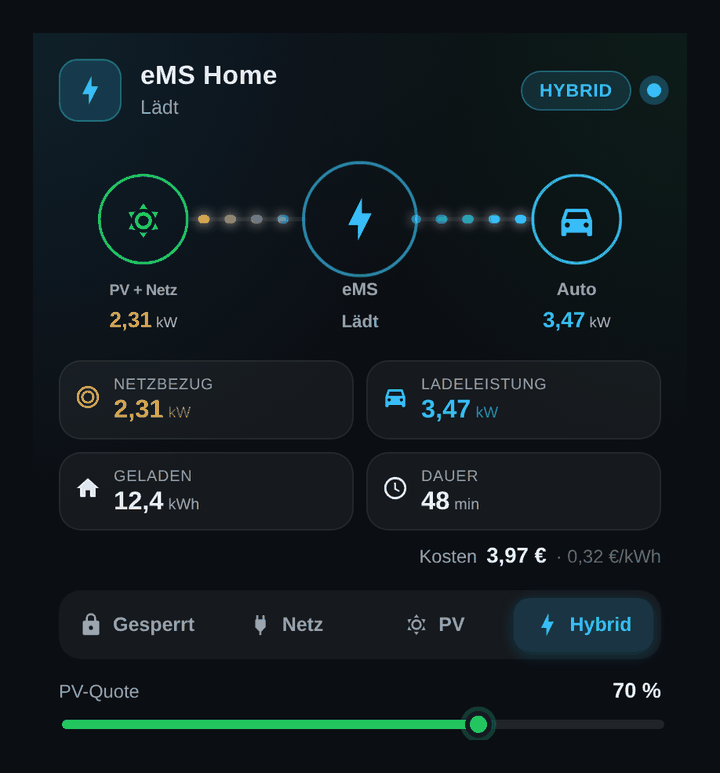
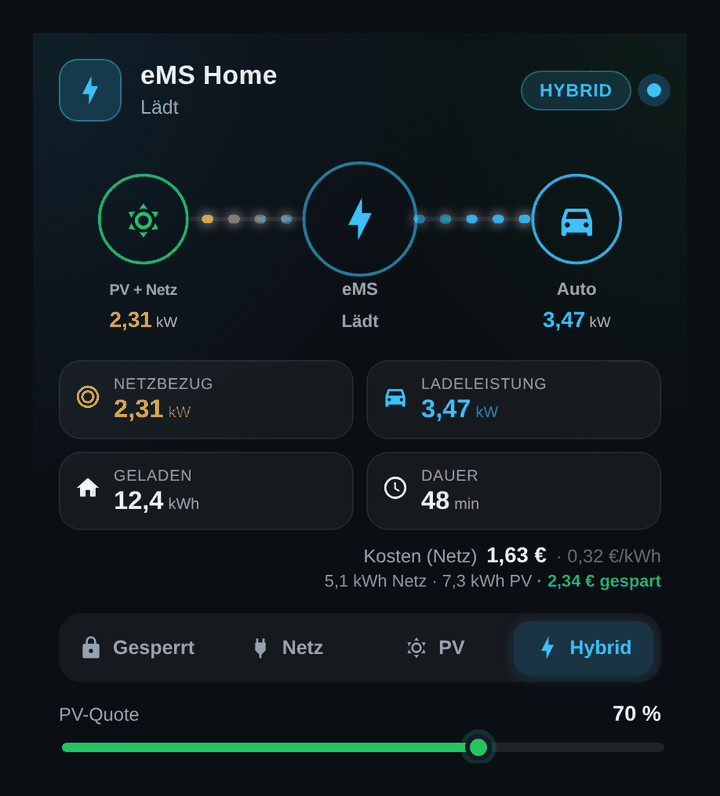
feat: price the grid share of a charging cycle and show what the PV saved
The cost line charged every kWh of a cycle at the grid tariff, which overstates
the bill in PV and hybrid mode. The coordinator now keeps a second counter: while
the car draws power, grid import is attributed to it first (capped at the car's
own draw), the remainder counts as solar.

- session energy sensor exposes energy_from_grid_kwh / energy_from_pv_kwh
- card: cost = grid * price + pv * pv_price (new option, default 0), plus a
  'gespart' figure = pv * (price - pv_price) and a split line under the total
- README: per-mode table, refreshed screenshots
- 4 coordinator tests + 3 browser checks

diff --git a/custom_components/ems_home/frontend/ems-home-card.js b/custom_components/ems_home/frontend/ems-home-card.js
@@ -16,12 +16,16 @@ const DEFAULTS = {
   show_controls: true,
   show_flows: true,
   price: null,
+  pv_price: null,
 };
 
 const STRINGS = {
   de: {
     grid: "Netz",
     pv_grid: "PV + Netz",
+    cost_grid: "Kosten (Netz)",
+    pv: "PV",
+    saved: "gespart",
     hub: "eMS",
     car: "Auto",
     grid_import: "Netzbezug",
@@ -44,6 +48,9 @@ const STRINGS = {
   en: {
     grid: "Grid",
     pv_grid: "PV + Grid",
+    cost_grid: "Cost (grid)",
+    pv: "PV",
+    saved: "saved",
     hub: "eMS",
     car: "Car",
     grid_import: "Grid import",
@@ -365,7 +372,8 @@ class EmsHomeCard extends HTMLElement {
           </div>
           ${
             showCost
-              ? `<div class="caption"><span>${this._t("cost")}</span><b data-bind="cost">–</b><span class="muted">· ${this._fmt(price, 2)} €/kWh</span></div>`
+              ? `<div class="caption"><span data-bind="cost-label">${this._t("cost")}</span><b data-bind="cost">–</b><span class="muted">· ${this._fmt(price, 2)} €/kWh</span></div>
+                 <div class="split"><span data-bind="split"></span><span class="saved" data-bind="saved"></span></div>`
               : ""
           }`
           }
@@ -504,8 +512,36 @@ class EmsHomeCard extends HTMLElement {
     const status = q("status");
     if (status) status.classList.toggle("on", charging);
 
+    // Cost: grid energy at the tariff, PV energy at pv_price (default 0 = own roof).
     const price = Number.parseFloat(this._config.price);
-    if (Number.isFinite(price)) setText("cost", this._fmt(num(st[e.session_energy]) * price, 2) + " €");
+    if (Number.isFinite(price)) {
+      const attrs = st[e.session_energy]?.attributes || {};
+      const gridKwh = Number(attrs.energy_from_grid_kwh);
+      const pvKwh = Number(attrs.energy_from_pv_kwh);
+      const splitKnown = Number.isFinite(gridKwh) && Number.isFinite(pvKwh);
+      const pvPrice = Number.parseFloat(this._config.pv_price);
+      const pvRate = Number.isFinite(pvPrice) ? pvPrice : 0;
+
+      const cost = splitKnown
+        ? gridKwh * price + pvKwh * pvRate
+        : num(st[e.session_energy]) * price;
+      setText("cost", this._fmt(cost, 2) + " €");
+
+      if (splitKnown) {
+        const mostlyPv = pvKwh > 0.05;
+        setText("cost-label", mostlyPv ? this._t("cost_grid") : this._t("cost"));
+        setText(
+          "split",
+          `${this._fmt(gridKwh, 1)} kWh ${this._t("grid")} · ${this._fmt(pvKwh, 1)} kWh ${this._t("pv")}`
+        );
+        // What the roof saved: PV energy that would otherwise have been bought.
+        const saved = pvKwh * Math.max(price - pvRate, 0);
+        setText(
+          "saved",
+          saved >= 0.01 ? ` · ${this._fmt(saved, 2)} € ${this._t("saved")}` : ""
+        );
+      }
+    }
 
     // --- grid side: throttled, otherwise the card feels restless
     const now = Date.now();
@@ -745,6 +781,11 @@ class EmsHomeCard extends HTMLElement {
       }
       .caption b { color: var(--primary-text-color); font-size: .86rem; }
       .caption .muted { opacity: .6; }
+      .split {
+        margin-top: 2px; text-align: right; font-size: .68rem;
+        color: var(--secondary-text-color); opacity: .9;
+      }
+      .split .saved { color: #22c55e; font-weight: 600; }
       .glyph { transform-box: fill-box; }
       .tile {
         display: flex; align-items: center; gap: 8px; min-width: 0;
@@ -869,6 +910,7 @@ class EmsHomeCardEditor extends HTMLElement {
       { name: "show_flows", selector: { boolean: {} } },
       { name: "show_controls", selector: { boolean: {} } },
       { name: "price", selector: { number: { min: 0, max: 5, step: 0.01, mode: "box" } } },
+      { name: "pv_price", selector: { number: { min: 0, max: 5, step: 0.01, mode: "box" } } },
       {
         name: "entities",
         type: "expandable",

diff --git a/preview/selftest.html b/preview/selftest.html
@@ -85,6 +85,30 @@ customElements.whenDefined("ems-home-card").then(() => {
   check("name fallback picks the select domain",
         bare._entities.charge_mode === "select.ems_home_charge_mode", bare._entities.charge_mode);
 
+  // ---------- 4b. cost uses the grid/PV split ----------
+  const pricey = makeCard(makeHass({ over:{
+    "sensor.controlroom_ems_home_ladeenergie": S("10.0", {
+      energy_from_grid_kwh: 4.0, energy_from_pv_kwh: 6.0 }) } }));
+  pricey.setConfig({ type:"custom:ems-home-card", title:"eMS Home", price:0.30 });
+  pricey.hass = makeHass({ over:{
+    "sensor.controlroom_ems_home_ladeenergie": S("10.0", {
+      energy_from_grid_kwh: 4.0, energy_from_pv_kwh: 6.0 }) } });
+  const costText = pricey.shadowRoot.querySelector('[data-bind="cost"]').textContent.trim();
+  check("cost prices grid energy only (4.0 kWh * 0,30)", costText === "1,20 €", costText);
+  const splitText = pricey.shadowRoot.querySelector('[data-bind="split"]').textContent.trim();
+  check("split line visible", splitText === "4,0 kWh Netz · 6,0 kWh PV", splitText);
+  const savedText = pricey.shadowRoot.querySelector('[data-bind="saved"]').textContent.trim();
+  check("savings shown (6.0 kWh * 0,30)", savedText === "· 1,80 € gespart", savedText);
+  check("label says grid cost",
+        pricey.shadowRoot.querySelector('[data-bind="cost-label"]').textContent.trim() === "Kosten (Netz)");
+
+  const pvPrice = makeCard(makeHass({ over:{
+    "sensor.controlroom_ems_home_ladeenergie": S("10.0", {
+      energy_from_grid_kwh: 4.0, energy_from_pv_kwh: 6.0 }) } }));
+  pvPrice.setConfig({ type:"custom:ems-home-card", title:"eMS Home", price:0.30, pv_price:0.10 });
+  const pvCost = pvPrice.shadowRoot.querySelector('[data-bind="cost"]').textContent.trim();
+  check("pv_price is added (4*0,30 + 6*0,10)", pvCost === "1,80 €", pvCost);
+
   // ---------- 5. locked / pv ----------
   const locked = makeCard(makeHass({ over:{ "select.ems_home_charge_mode": S("lock"),
                                             "sensor.ems_home_charge_mode": S("lock") } }));

diff --git a/preview/shot.html b/preview/shot.html
@@ -53,7 +53,8 @@ const states = {
   "select.ems_home_charge_mode": S(mode, { options:["lock","grid","pv","hybrid"] }),
   "number.ems_home_min_pv_power_quota": S("70", { min:0, max:100, step:10 }),
   "sensor.ems_home_charging_session_duration": S("48"),
-  "sensor.controlroom_ems_home_ladeenergie": S("12.4"),
+  "sensor.controlroom_ems_home_ladeenergie": S("12.4", {
+    energy_from_grid_kwh: 5.1, energy_from_pv_kwh: 7.3 }),
 };
 for (const [id,o] of Object.entries(states)) o.entity_id = id;
 const entities = {};

diff --git a/custom_components/ems_home/coordinator.py b/custom_components/ems_home/coordinator.py
@@ -32,6 +32,8 @@ class EMSHomeData:
     #: Energy of the current charging cycle, integrated by the coordinator when
     #: the firmware does not report it (some versions always send 0).
     tracked_session_energy_wh: float = 0.0
+    #: Share of that energy that came from the grid (rest: from the roof).
+    tracked_session_grid_wh: float = 0.0
 
     @property
     def session_energy_kwh(self) -> float:
@@ -42,6 +44,22 @@ class EMSHomeData:
         if self.evse is not None and self.evse.session_energy > 0:
             return self.evse.session_energy_kwh
         return round(self.tracked_session_energy_wh / 1000, 3)
+
+    @property
+    def session_grid_kwh(self) -> float:
+        """Energy of the cycle that was drawn from the grid.
+
+        While charging, whatever the meter reports as import is attributed to the
+        car first (capped at the charging power); the remainder comes from the
+        roof. That is an estimate – the house draws from the same meter – but far
+        closer to the truth than pricing PV energy at the grid tariff.
+        """
+        return round(self.tracked_session_grid_wh / 1000, 3)
+
+    @property
+    def session_pv_kwh(self) -> float:
+        total = self.session_energy_kwh
+        return max(round(total - self.session_grid_kwh, 3), 0.0)
 
     @property
     def charging_power_kw(self) -> float:
@@ -92,6 +110,7 @@ class EMSHomeCoordinator(DataUpdateCoordinator[EMSHomeData]):
         self._poll_count = 0
         # per charging cycle
         self._session_energy_wh = 0.0
+        self._session_grid_wh = 0.0
         self._session_prev: Optional[dict[str, float | bool]] = None
         self._energy_last_ts: Optional[float] = None
 
@@ -216,6 +235,7 @@ class EMSHomeCoordinator(DataUpdateCoordinator[EMSHomeData]):
             smart_meter=self._latest_smart_meter,
             evse=self._latest_evse,
             tracked_session_energy_wh=self._session_energy_wh,
+            tracked_session_grid_wh=self._session_grid_wh,
         )
 
     # ------------------------------------------------------------------
@@ -243,6 +263,7 @@ class EMSHomeCoordinator(DataUpdateCoordinator[EMSHomeData]):
                 duration,
             )
             self._session_energy_wh = 0.0
+            self._session_grid_wh = 0.0
             self._energy_last_ts = None
 
         self._session_prev = {"duration": duration, "plugged": plugged}
@@ -260,7 +281,16 @@ class EMSHomeCoordinator(DataUpdateCoordinator[EMSHomeData]):
         elapsed = now - previous
         if not 0 < elapsed < 300:  # a poll gap this long is a restart, not a sample
             return
-        self._session_energy_wh += power_kw * elapsed / 3600 * 1000
+
+        hours = elapsed / 3600
+        energy_wh = power_kw * hours * 1000
+        self._session_energy_wh += energy_wh
+
+        # Attribute grid import to the car first, capped at its own draw.
+        grid_kw = 0.0
+        if self._latest_smart_meter is not None:
+            grid_kw = max(self._latest_smart_meter.power_total / 1000, 0.0)
+        self._session_grid_wh += min(grid_kw, power_kw) * hours * 1000
 
     def _fetch_all(self) -> tuple[DeviceStatus, EMobilityState, ChargeModeConfig]:
         # Keep the stream tokens in sync with the (renewed) HTTP session token.

diff --git a/tests/test_session_energy.py b/tests/test_session_energy.py
@@ -20,9 +20,15 @@ from custom_components.ems_home.ws_proto import EVSEReading  # noqa: E402
 def coordinator() -> EMSHomeCoordinator:
     obj = object.__new__(EMSHomeCoordinator)
     obj._session_energy_wh = 0.0
+    obj._session_grid_wh = 0.0
     obj._session_prev = None
     obj._energy_last_ts = None
+    obj._latest_smart_meter = None
     return obj
+
+
+def meter(power_kw: float):
+    return SimpleNamespace(power_total=int(power_kw * 1000))
 
 
 def reading(duration: int, status: int) -> EVSEReading:
@@ -88,3 +94,37 @@ def test_paused_session_keeps_the_counter():
     c._track_session_cycle(reading(600, CHARGING))
     c._track_session_cycle(reading(700, SUSPENDED))
     assert c._session_energy_wh == 700.0
+
+
+def test_all_energy_counts_as_grid_when_the_meter_imports_that_much():
+    c = coordinator()
+    c._latest_smart_meter = meter(5.0)          # house + car import 5 kW
+    c._energy_last_ts = time.monotonic() - 10
+    c._accumulate_session_energy(state(3.6))
+    assert abs(c._session_energy_wh - c._session_grid_wh) < 0.1
+
+
+def test_pv_share_when_the_meter_imports_less_than_the_car_draws():
+    c = coordinator()
+    c._latest_smart_meter = meter(1.8)          # 1.8 kW from the grid
+    c._energy_last_ts = time.monotonic() - 10
+    c._accumulate_session_energy(state(3.6))
+    assert 9.5 < c._session_energy_wh < 10.5
+    assert 4.7 < c._session_grid_wh < 5.3       # 1.8 kW * 10 s
+    assert c._session_energy_wh - c._session_grid_wh > 4.5   # the rest is PV
+
+
+def test_export_never_counts_as_grid_energy():
+    c = coordinator()
+    c._latest_smart_meter = meter(-4.0)         # feeding in, so nothing from the grid
+    c._energy_last_ts = time.monotonic() - 10
+    c._accumulate_session_energy(state(3.6))
+    assert c._session_grid_wh == 0.0
+
+
+def test_grid_share_resets_with_the_cycle():
+    c = coordinator()
+    c._session_grid_wh = 4000.0
+    c._track_session_cycle(reading(3000, CHARGING))
+    c._track_session_cycle(reading(2, CHARGING))
+    assert c._session_grid_wh == 0.0 and c._session_energy_wh == 0.0

diff --git a/custom_components/ems_home/sensor.py b/custom_components/ems_home/sensor.py
@@ -506,15 +506,29 @@ class EMSHomeSensor(CoordinatorEntity[EMSHomeCoordinator], SensorEntity):
 
     @property
     def extra_state_attributes(self) -> dict | None:
-        """Expose the raw wallbox status and id on the status sensor.
+        """Diagnostic extras for the status and session-energy sensors.
 
-        Two wallboxes on the wildcard stream cannot be told apart by the state
-        alone, so the uuid is needed to diagnose "the entities alternate".
+        The status sensor carries the raw code and the wallbox uuid – two boxes on
+        the wildcard stream cannot be told apart by the state alone. The session
+        energy sensor carries the grid/PV split, because the card prices grid
+        energy only.
         """
+        data = self.coordinator.data
+        if data is None:
+            return None
+
+        if self.entity_description.key == "evse_session_energy":
+            # Where the energy of this cycle came from – the card prices grid
+            # energy only, so the split has to be visible.
+            return {
+                "energy_from_grid_kwh": data.session_grid_kwh,
+                "energy_from_pv_kwh": data.session_pv_kwh,
+                "split_estimated": True,
+            }
+
         if self.entity_description.key != "evse_status":
             return None
-        data = self.coordinator.data
-        if data is None or data.evse is None:
+        if data.evse is None:
             return None
         return {
             "status_code": data.evse.evse_status_code or None,

diff --git a/README.md b/README.md
@@ -64,14 +64,15 @@ The integration ships `custom:ems-home-card` and registers it automatically -
 after installing or updating there is nothing to add to your dashboard resources.
 
 - **The flow at a glance** – roof and grid on the left, wallbox in the middle, car on the right. The dots speed up with the power, and they turn around when you are feeding into the grid.
-- **Only what matters** – grid import refreshes every 5 s and charging power stays live; energy and duration are counted per charging cycle, plus an optional cost at your kWh price.
+- **Only what matters** – grid import refreshes every 5 s and charging power stays live; energy and duration are counted per charging cycle, and the cost uses the grid share of that cycle, not the whole amount.
 - **Control where you look** – Grid / PV / Hybrid / Lock buttons and the PV quota slider, which appears in hybrid mode where it actually applies.
 - **Quiet when nothing happens** – a locked wallbox hides the animation and the figures instead of showing zeros.
 
 ```yaml
 type: custom:ems-home-card
 title: eMS Home
-price: 0.32          # optional – shows the session cost
+price: 0.32          # optional – grid tariff for the session cost
+pv_price: 0.08       # optional – value of your own PV energy (default 0)
 layout: full         # or "compact"
 show_flows: true     # animated energy flow
 show_controls: true  # mode buttons + PV quota slider
@@ -91,6 +92,24 @@ entities:
   session_energy: sensor.ems_home_evse_session_energy
   pv_power: sensor.solar_roof_power        # optional, external PV sensor
 ```
+
+The cost line prices **grid energy only**: during each cycle the integration
+records how much of the charging power came from the meter and how much from the
+roof, and shows the split under the total (`5,1 kWh Netz · 7,3 kWh PV ·
+2,34 € gespart`). Set `pv_price` if you want to value your own solar energy as
+well – feed-in tariff or opportunity cost. Without it, PV energy counts as free
+and the second figure is what the roof saved you:
+
+| Charge mode | Cost of the cycle | Shown saving |
+|---|---|---|
+| **Grid** | full energy × `price` | – |
+| **PV** | ≈ 0 (only surplus is used) | PV energy × `price` |
+| **Hybrid** | grid share × `price` + PV share × `pv_price` | PV share × (`price` − `pv_price`) |
+| **Lock** | – | – |
+
+The split is measured, not assumed: while the car charges, whatever the meter
+reports as import is attributed to the car first (capped at its own draw), the
+rest counts as solar.
 
 The card is fully theme-aware (light/dark), ships a GUI editor and needs no
 external frontend dependency (no Mushroom, no card-mod).
